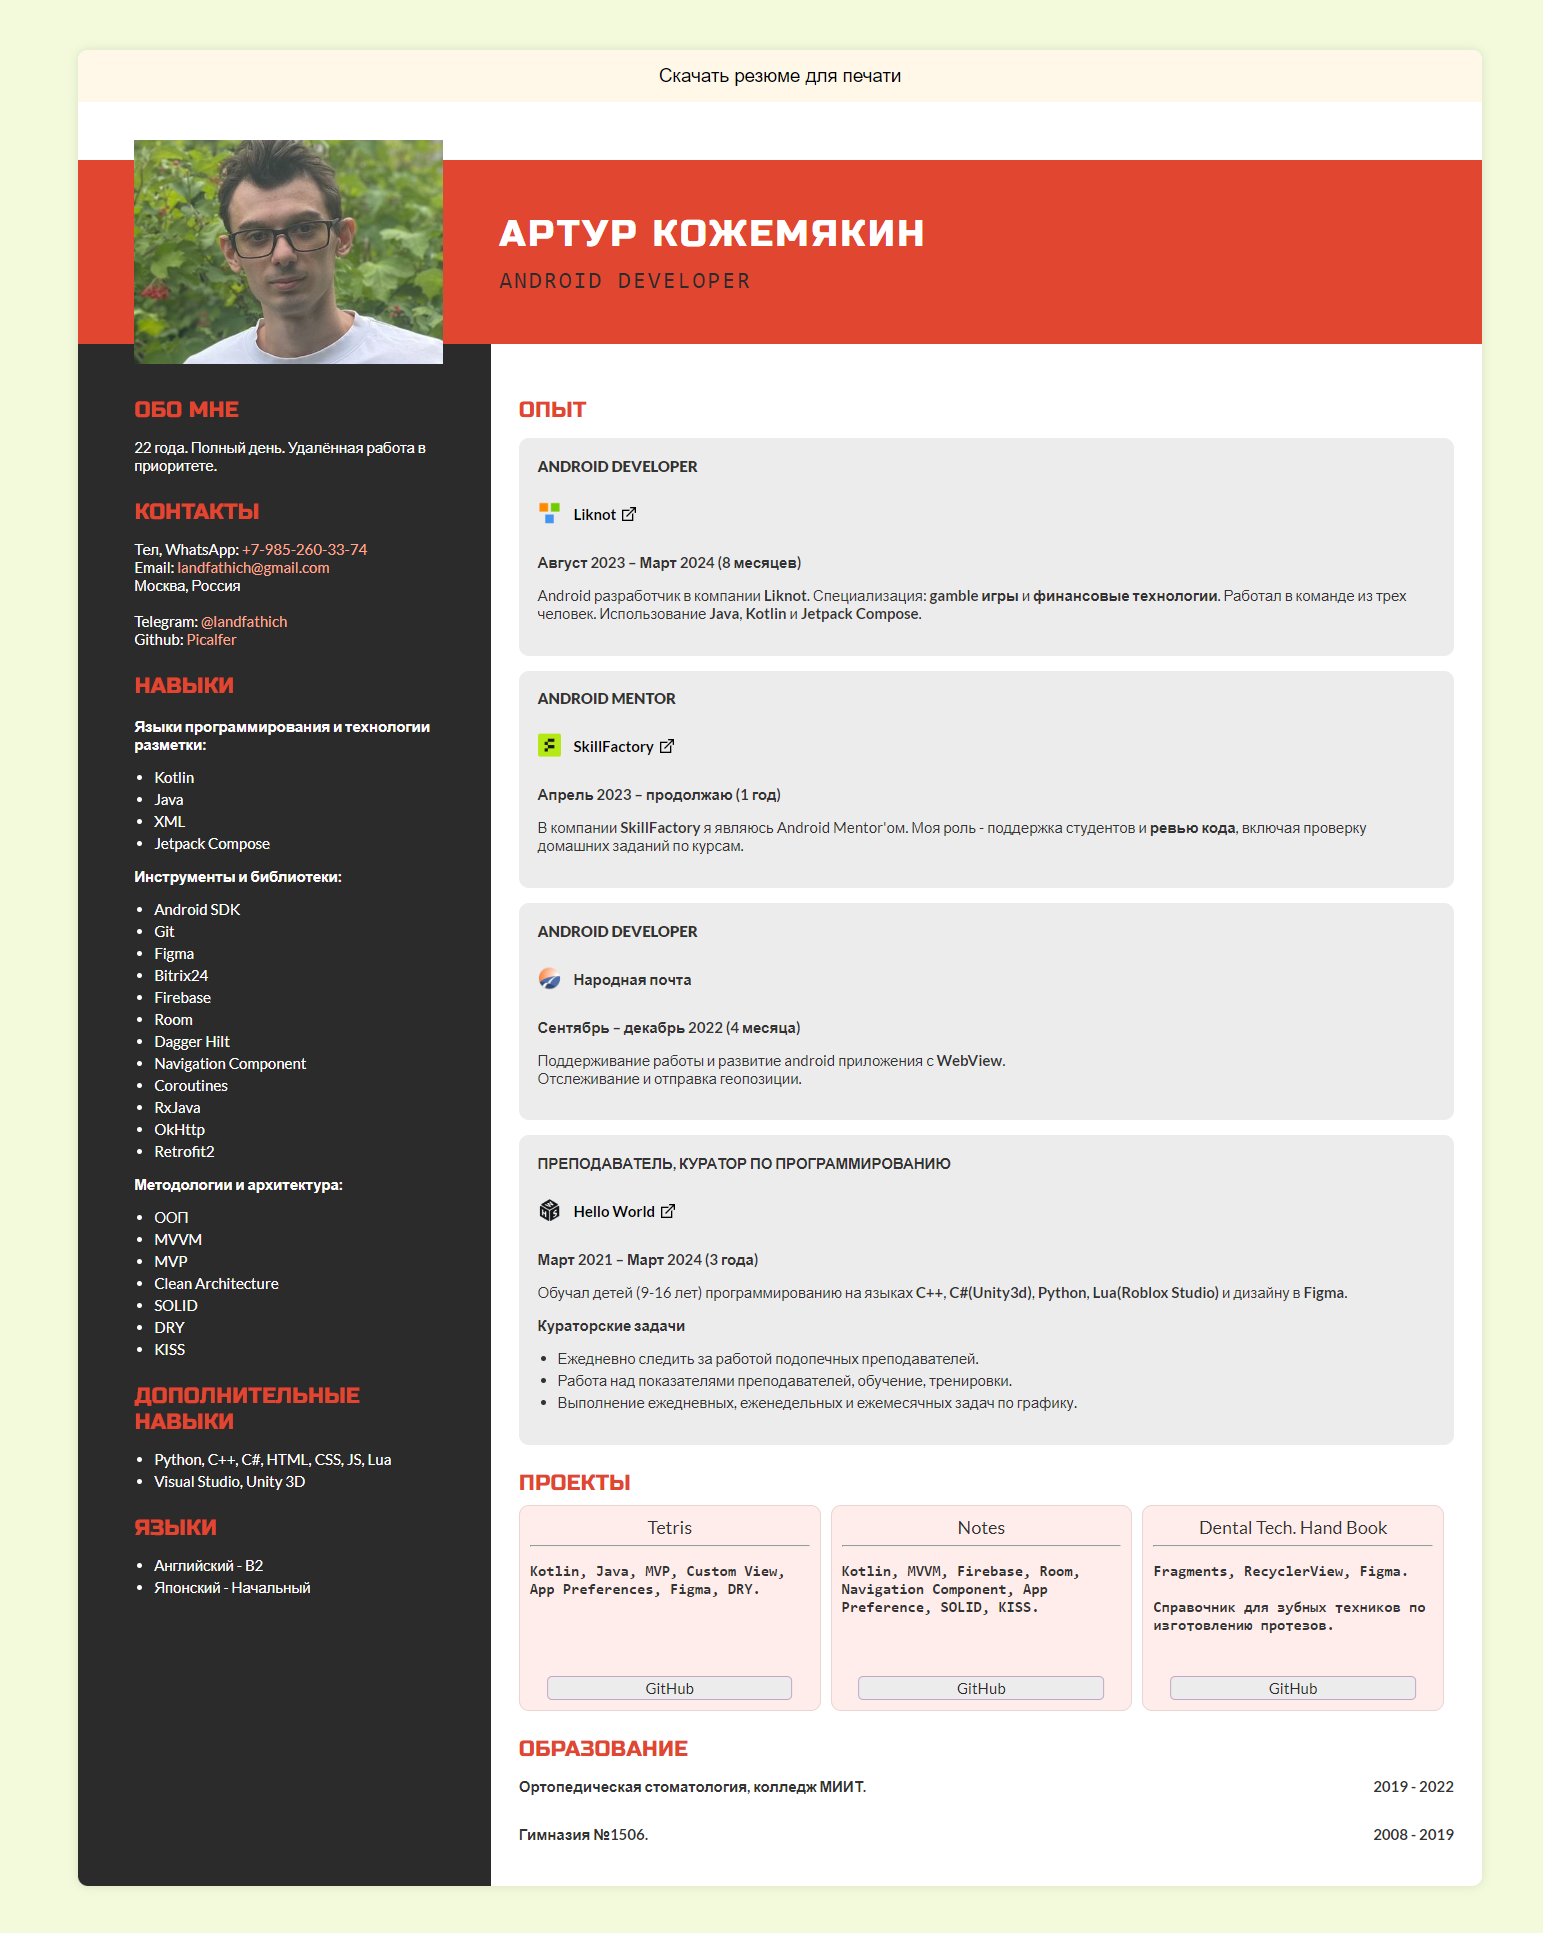
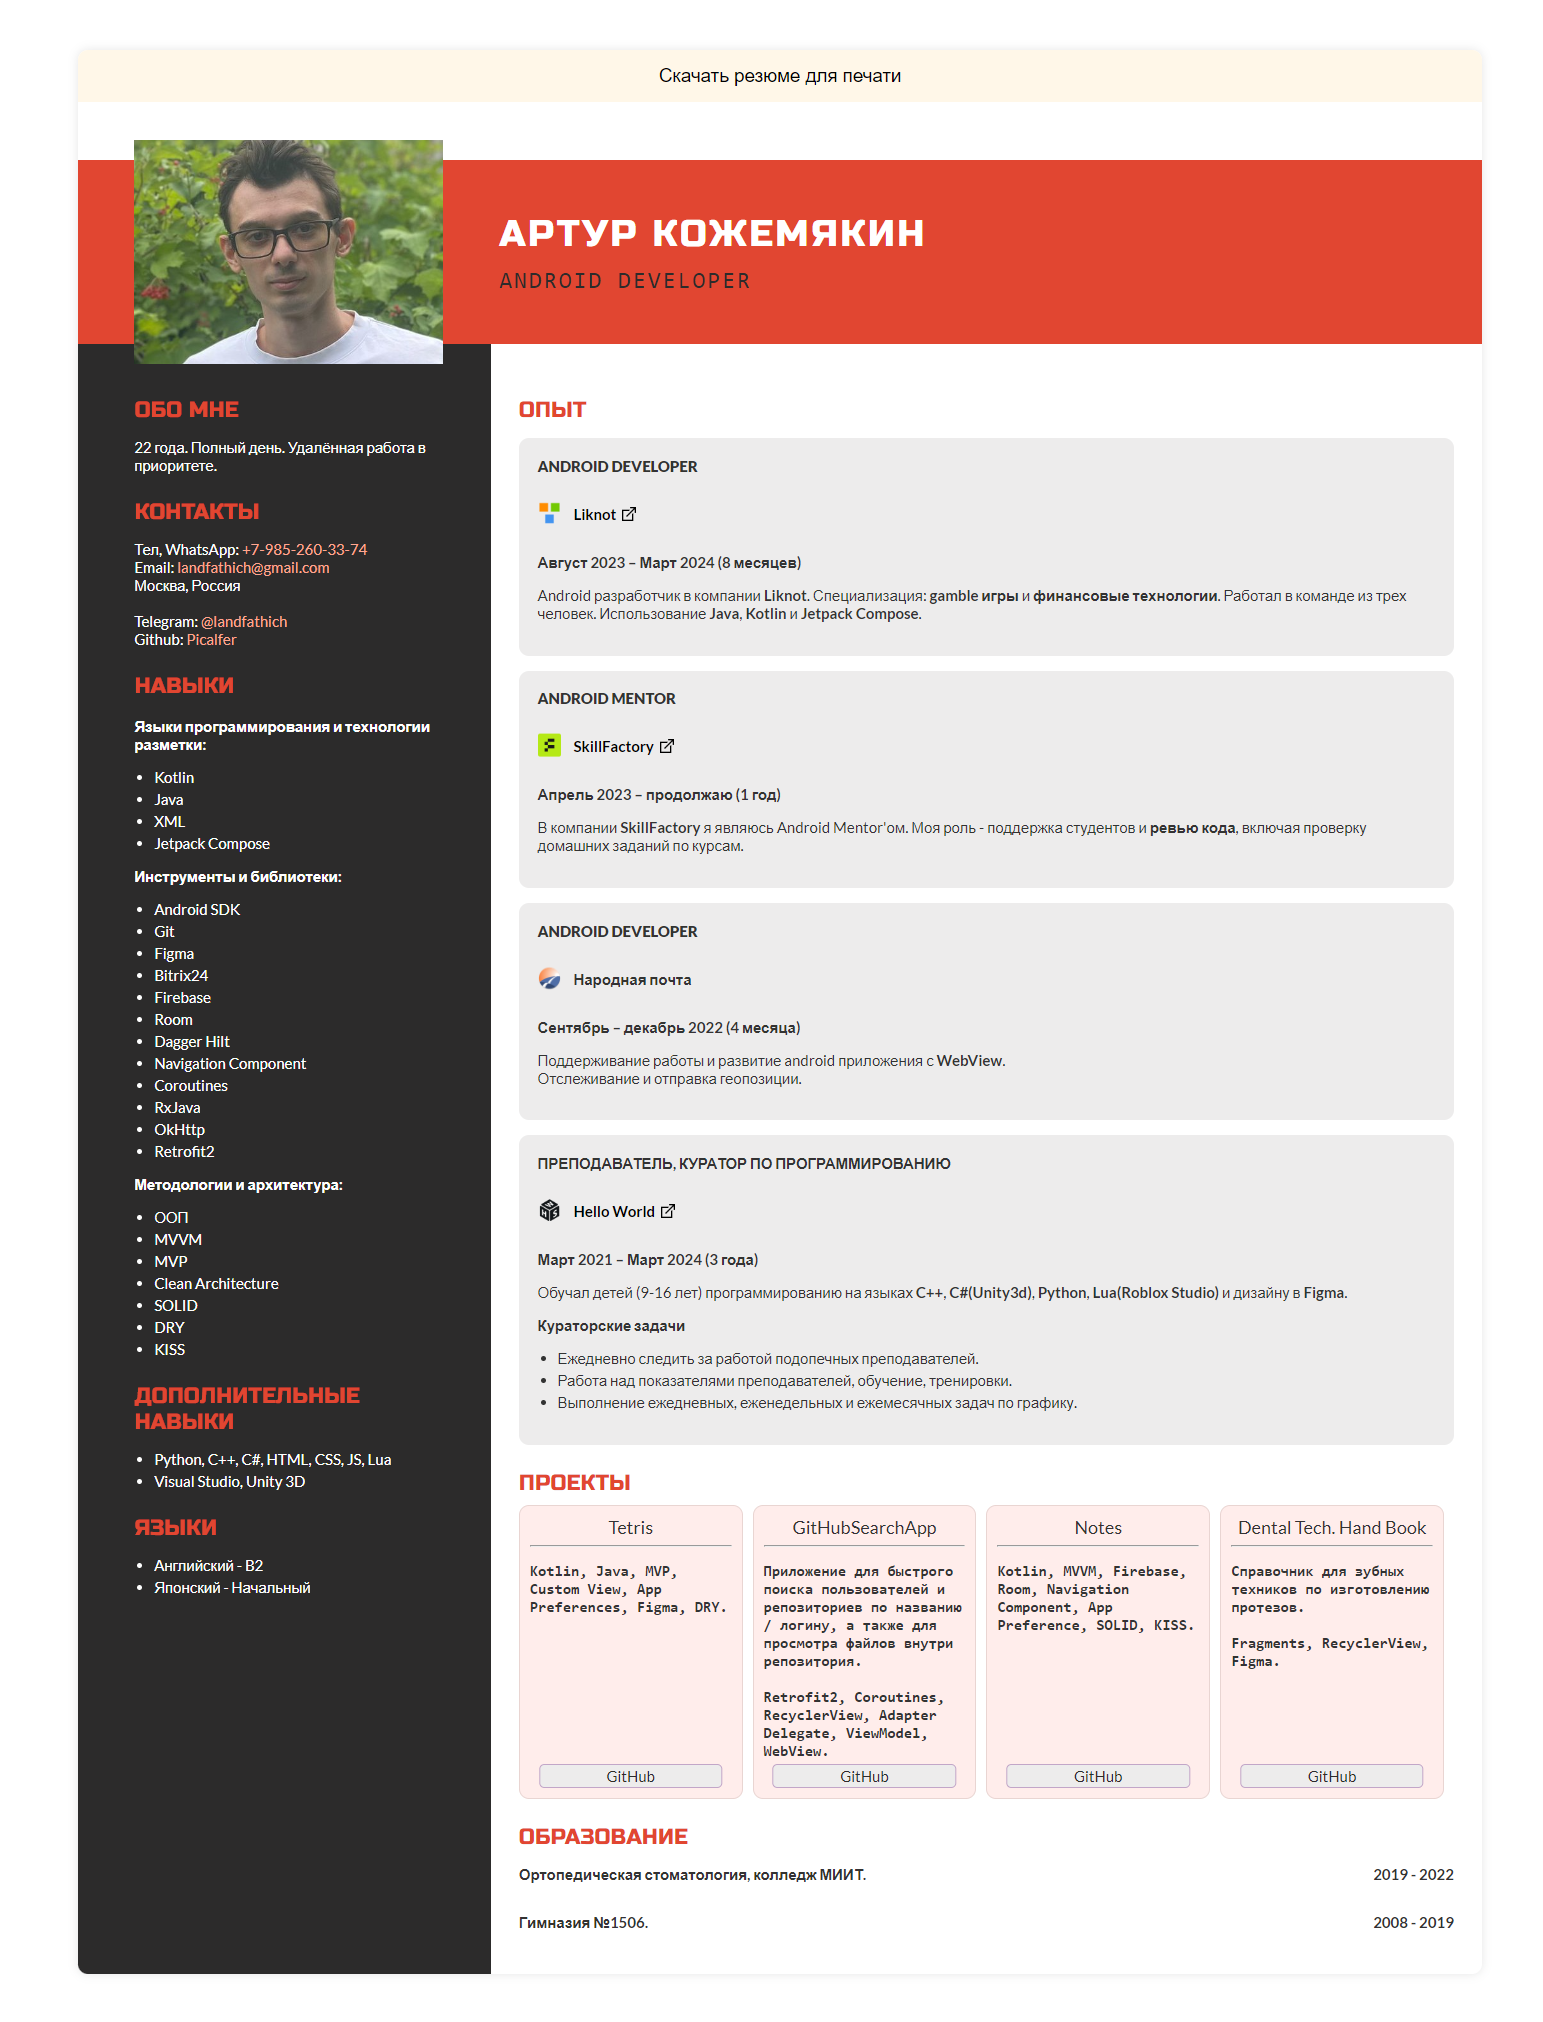
add one more project

diff --git a/index.html b/index.html
@@ -166,6 +166,26 @@
 							</a>
 						</div>
 						<div class="project">
+							<p class="project-name">GitHubSearchApp</p>
+							<hr>
+							<p class="skills">
+								Приложение для быстрого поиска пользователей и репозиториев по названию / логину, а
+								также для просмотра файлов внутри репозитория.
+								
+								<br><br>
+								Retrofit2,
+								Coroutines,
+								RecyclerView,
+								Adapter Delegate,
+								ViewModel,
+								WebView.
+							</p>
+							<a class="git-link" href="https://github.com/Picalfer/GitHubSearchApp"
+								target="_blank">
+								GitHub
+							</a>
+						</div>
+						<div class="project">
 							<p class="project-name">Notes</p>
 							<hr>
 							<p class="skills">
@@ -179,9 +199,9 @@
 							<p class="project-name">Dental Tech. Hand Book</p>
 							<hr>
 							<p class="skills">
-								Fragments, RecyclerView, Figma.
-								<br><br>
 								Справочник для зубных техников по изготовлению протезов.
+								<br><br>
+								Fragments, RecyclerView, Figma.
 							</p>
 							<a class="git-link" href="https://github.com/Picalfer/DentalTechnicianHandBook"
 								target="_blank">

diff --git a/style.css b/style.css
@@ -281,6 +281,7 @@ li {
     min-height: 20vh;
     padding: 10px;
     margin-right: 10px;
+    padding-bottom: 23px;
 }
 
 .skills {
